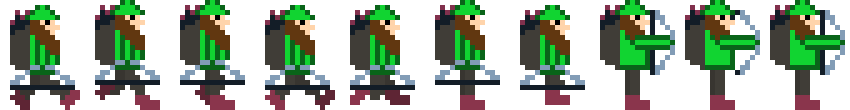
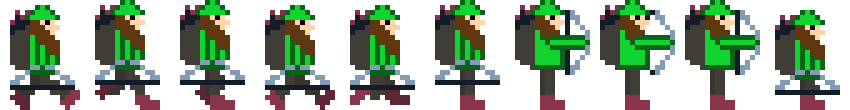
add snowman

diff --git a/js/make_snowman.js b/js/make_snowman.js
@@ -1,0 +1,45 @@
+function snowmanPreload(){
+  game.load.spritesheet('snowman','../assets/snowman.png',150,150);
+}
+
+function snowmanCreate(){
+  snowman = game.add.sprite(550, game.world.height - 100, 'snowman');
+
+  game.physics.arcade.enable(snowman);
+  snowman.body.bounce.y = 0.1;
+  snowman.body.gravity.y = 550;
+  snowman.body.collideWorldBounds = true;
+  snowman.animations.add('stay',[0, 1, 2, 3, 4, 5], 8, true);
+  snowman.animations.add('shoot', [6, 7], 8, true);
+  snowman.animations.add('flash', [8, 9, 10,8, 9, 10,8, 9, 10], 80, true)
+}
+
+function snowmanUpdate(){
+
+  snowman.animations.play('stay');
+  snowman.tint = 0xffffff;
+}
+function tweenTint(obj, startColor, endColor, time = 250, callback = null) {
+        if (obj) {
+            let colorBlend = { step: 0 };
+            let colorTween = this.game.add.tween(colorBlend).to({ step: 100 }, time);
+            colorTween.onUpdateCallback(() => {
+                obj.tint = Phaser.Color.interpolateColor(startColor, endColor, 100, colorBlend.step);
+            });
+            obj.tint = startColor;
+            if (callback) {
+                colorTween.onComplete.add(() => {
+                    callback();
+                });
+            }
+            colorTween.start();
+        }
+    }
+
+function flash(){
+  for (var i = 0; i < 45; i++)
+    {
+      tweenTint(snowman, Math.random() * 0xffffff, Math.random() * 0xffffff, 100);
+    }
+
+}

diff --git a/js/make_player.js b/js/make_player.js
@@ -3,7 +3,7 @@ function playerPreload(){
 }
 
 function playerCreate(){
-  player = game.add.sprite(32, game.world.height - 100, 'archer');
+  player = game.add.sprite(85, game.world.height - 100, 'archer');
 
   player.anchor.setTo(0.5, 0.5);
   game.physics.arcade.enable(player);
@@ -11,23 +11,30 @@ function playerCreate(){
   player.body.gravity.y = 250;
   player.body.collideWorldBounds = true;
   player.animations.add('walk',[0, 1, 2, 3, 4, 5], 8, true);
-  player.animations.add('shoot', [7, 8, 9], 8, true)
+  player.animations.add('shoot', [6, 7, 8], 8, true);
+  player.animations.add('down', [9], 8, true)
 }
 
 function playerUpdate(){
   cursors = game.input.keyboard.createCursorKeys();
   shootKey = game.input.keyboard.addKey(Phaser.Keyboard.X);
   player.body.velocity.x = 0;
-
+  player.scale.y = 1;
   if(cursors.left.isDown){
     player.scale.x = -1 ;
 		player.body.velocity.x = -150;
 		player.animations.play('walk');
 	}else if (cursors.right.isDown){
     player.scale.x = 1;
-		player.body.velocity.x = 150;
+		player.body.velocity.x = 150 ;
 		player.animations.play('walk');
-	}else if(shootKey.isDown){
+	}else if (cursors.down.isDown){
+    player.scale.y = 0.9;
+		player.body.velocity.x = 0 ;
+		player.animations.play('down');
+	}
+  else if(shootKey.isDown){
+		player.body.velocity.x = 0 ;
     player.animations.play('shoot');
     fire();
   }else {

diff --git a/js/main.js b/js/main.js
@@ -4,6 +4,7 @@ function preload(){
   shootPreload()
   playerPreload();
   snowPreload();
+  snowmanPreload();
 
 }
 function create(){
@@ -11,6 +12,7 @@ function create(){
   snowCreate();
   playerCreate();
   shootCreate()
+  snowmanCreate();
 
   game.physics.startSystem(Phaser.Physics.ARCADE);
   game.stage.backgroundColor = "#bbb1ff";
@@ -20,5 +22,6 @@ function update(){
 
   snowUpdate();
   playerUpdate();
-
+  snowmanUpdate();
+  game.physics.arcade.overlap(arrows, snowman, collisionHandler, null, this);
 }

diff --git a/index.html b/index.html
@@ -17,8 +17,10 @@
   <body>
     <script type="text/javascript" src="https://cdnjs.cloudflare.com/ajax/libs/phaser/2.6.2/phaser.min.js"></script>
     <script type="text/javascript" src="./js/make_snow.js"></script>
+    <script type="text/javascript" src="./js/make_snowman.js"></script>
     <script type="text/javascript" src="./js/make_shoot.js"></script>
     <script type="text/javascript" src="./js/make_player.js"></script>
+
     <script type="text/javascript" src="./js/main.js"></script>
 
   </body>

diff --git a/js/make_shoot.js b/js/make_shoot.js
@@ -31,3 +31,17 @@ function fire(){
   }
 
 }
+
+function collisionHandler (snowman, arrow) {
+
+    //  When a bullet hits an alien we kill them both
+    arrow.kill();
+    flash();
+
+    //  Increase the score
+
+
+    //  And create an explosion :)
+
+
+}
